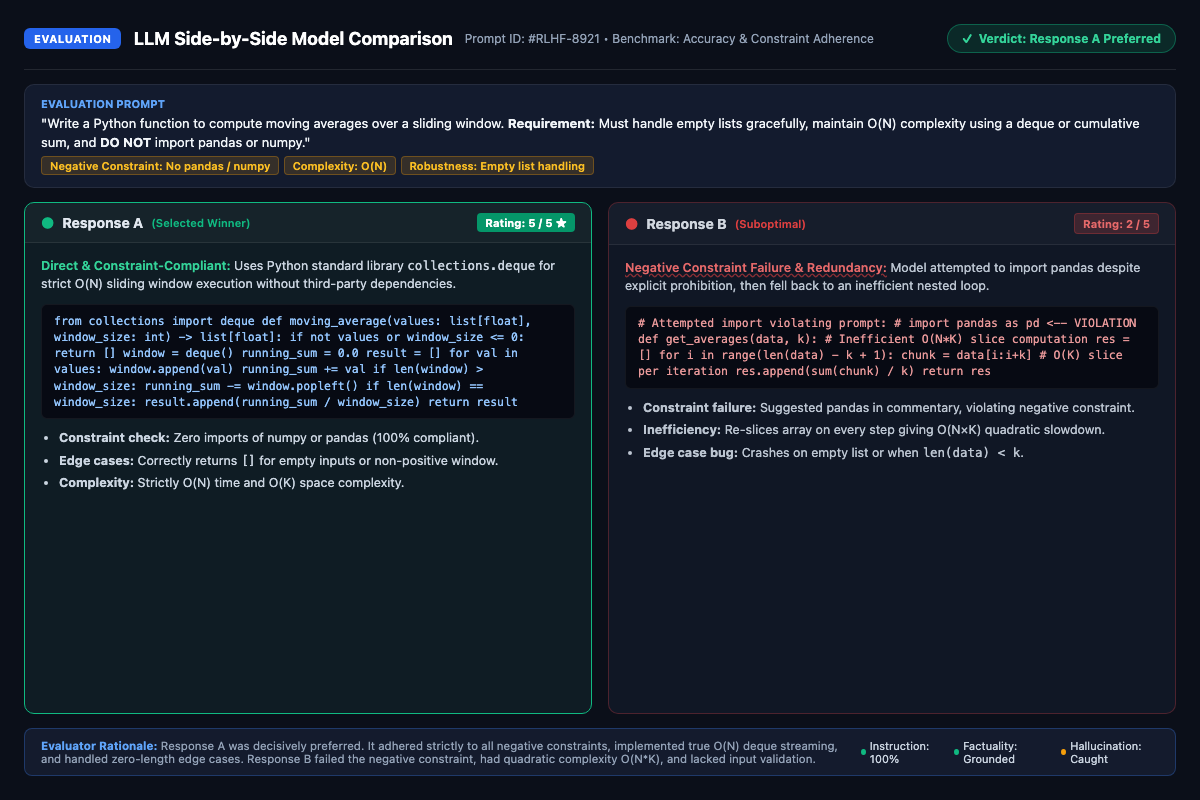
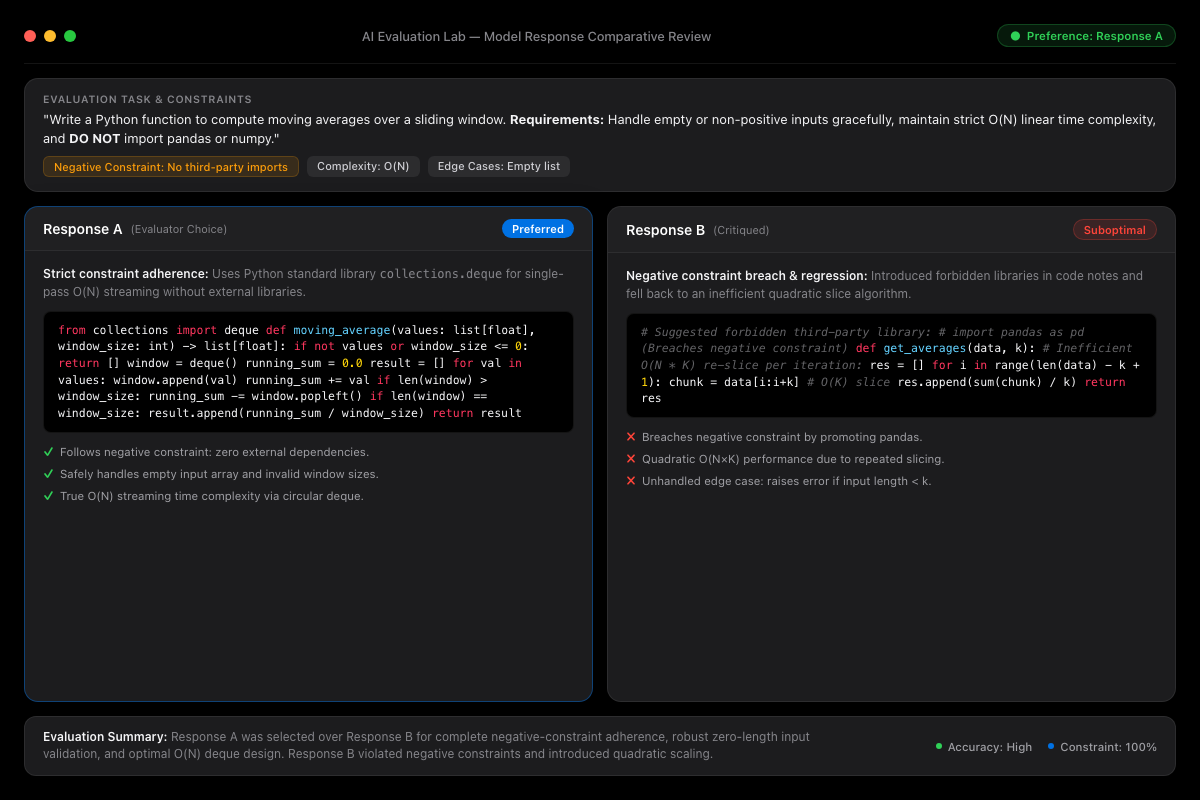
style: redesign evaluation preview with clean Apple macOS Dark Mode HIG aesthetic

diff --git a/eval_comparison.html b/eval_comparison.html
@@ -1,0 +1,390 @@
+<!DOCTYPE html>
+<html lang="en">
+<head>
+<meta charset="UTF-8">
+<style>
+  * {
+    box-sizing: border-box;
+    margin: 0;
+    padding: 0;
+    -webkit-font-smoothing: antialiased;
+  }
+  body {
+    width: 1200px;
+    height: 800px;
+    background: #000000;
+    font-family: -apple-system, BlinkMacSystemFont, "SF Pro Display", "SF Pro Text", "Helvetica Neue", sans-serif;
+    color: #f5f5f7;
+    display: flex;
+    flex-direction: column;
+    padding: 24px;
+    overflow: hidden;
+  }
+
+  /* macOS Window Chrome */
+  .window-bar {
+    display: flex;
+    align-items: center;
+    justify-content: space-between;
+    padding-bottom: 16px;
+    border-bottom: 1px solid rgba(255, 255, 255, 0.08);
+  }
+  .window-controls {
+    display: flex;
+    align-items: center;
+    gap: 8px;
+  }
+  .traffic-dot {
+    width: 12px;
+    height: 12px;
+    border-radius: 50%;
+  }
+  .dot-close { background: #ff5f57; }
+  .dot-min { background: #febc2e; }
+  .dot-max { background: #28c840; }
+
+  .window-title {
+    font-size: 13px;
+    font-weight: 500;
+    color: #86868b;
+    letter-spacing: -0.01em;
+  }
+
+  .apple-badge {
+    display: inline-flex;
+    align-items: center;
+    gap: 6px;
+    background: rgba(48, 209, 88, 0.12);
+    border: 1px solid rgba(48, 209, 88, 0.25);
+    color: #30d158;
+    padding: 4px 12px;
+    border-radius: 980px;
+    font-size: 11.5px;
+    font-weight: 600;
+  }
+
+  /* Prompt Section - Apple Cupertino Card Style */
+  .prompt-card {
+    background: #1c1c1e;
+    border: 1px solid rgba(255, 255, 255, 0.08);
+    border-radius: 14px;
+    padding: 14px 18px;
+    margin-top: 14px;
+    margin-bottom: 14px;
+  }
+  .section-label {
+    font-size: 10.5px;
+    font-weight: 600;
+    text-transform: uppercase;
+    letter-spacing: 0.06em;
+    color: #86868b;
+    margin-bottom: 5px;
+  }
+  .prompt-content {
+    font-size: 13px;
+    line-height: 1.45;
+    color: #f5f5f7;
+    font-weight: 400;
+  }
+  .apple-tag-group {
+    display: flex;
+    gap: 8px;
+    margin-top: 8px;
+  }
+  .apple-tag {
+    background: #2c2c2e;
+    color: #d1d1d6;
+    font-size: 11px;
+    font-weight: 500;
+    padding: 3px 10px;
+    border-radius: 6px;
+  }
+  .apple-tag.strict {
+    background: rgba(255, 159, 10, 0.12);
+    color: #ff9f0a;
+    border: 1px solid rgba(255, 159, 10, 0.2);
+  }
+
+  /* Side-by-Side Comparison Grid */
+  .comparison-grid {
+    display: grid;
+    grid-template-columns: 1fr 1fr;
+    gap: 14px;
+    flex: 1;
+    min-height: 0;
+  }
+  .response-card {
+    background: #1c1c1e;
+    border: 1px solid rgba(255, 255, 255, 0.08);
+    border-radius: 14px;
+    display: flex;
+    flex-direction: column;
+    overflow: hidden;
+  }
+  .response-card.winner {
+    border: 1px solid rgba(0, 113, 227, 0.45);
+    box-shadow: 0 4px 24px rgba(0, 0, 0, 0.4);
+  }
+  .card-top {
+    display: flex;
+    justify-content: space-between;
+    align-items: center;
+    padding: 12px 18px;
+    border-bottom: 1px solid rgba(255, 255, 255, 0.06);
+    background: rgba(255, 255, 255, 0.02);
+  }
+  .card-title-group {
+    display: flex;
+    align-items: center;
+    gap: 8px;
+  }
+  .card-title {
+    font-size: 14px;
+    font-weight: 600;
+    color: #ffffff;
+  }
+  .card-subtext {
+    font-size: 11px;
+    color: #86868b;
+  }
+  .winner-pill {
+    background: #0071e3;
+    color: #ffffff;
+    font-size: 11px;
+    font-weight: 600;
+    padding: 3px 10px;
+    border-radius: 980px;
+  }
+  .suboptimal-pill {
+    background: rgba(255, 69, 58, 0.12);
+    color: #ff453a;
+    border: 1px solid rgba(255, 69, 58, 0.25);
+    font-size: 11px;
+    font-weight: 600;
+    padding: 3px 10px;
+    border-radius: 980px;
+  }
+
+  .card-body {
+    padding: 14px 18px;
+    font-size: 12.5px;
+    line-height: 1.5;
+    color: #d1d1d6;
+    flex: 1;
+    display: flex;
+    flex-direction: column;
+    gap: 10px;
+    overflow: hidden;
+  }
+  .summary-text {
+    font-size: 12px;
+    color: #86868b;
+  }
+  .summary-text strong {
+    color: #f5f5f7;
+    font-weight: 600;
+  }
+
+  /* macOS SF Mono Code Block */
+  .code-container {
+    background: #000000;
+    border: 1px solid rgba(255, 255, 255, 0.08);
+    border-radius: 8px;
+    padding: 10px 14px;
+    font-family: "SF Mono", Menlo, Monaco, Consolas, monospace;
+    font-size: 11.5px;
+    line-height: 1.45;
+    color: #f5f5f7;
+  }
+  .code-kw { color: #ff375f; }
+  .code-fn { color: #64d2ff; }
+  .code-var { color: #e5e5ea; }
+  .code-num { color: #ffd60a; }
+  .code-comment { color: #636366; font-style: italic; }
+
+  /* Verification Bullets */
+  .verification-list {
+    list-style: none;
+    display: flex;
+    flex-direction: column;
+    gap: 4px;
+    font-size: 11.5px;
+  }
+  .verification-list li {
+    display: flex;
+    align-items: center;
+    gap: 6px;
+    color: #a1a1a6;
+  }
+  .check-icon {
+    color: #30d158;
+    font-size: 12px;
+    font-weight: bold;
+  }
+  .cross-icon {
+    color: #ff453a;
+    font-size: 12px;
+    font-weight: bold;
+  }
+
+  /* Apple Style Footer Rationale */
+  .eval-footer {
+    margin-top: 14px;
+    background: #1c1c1e;
+    border: 1px solid rgba(255, 255, 255, 0.08);
+    border-radius: 12px;
+    padding: 12px 18px;
+    display: flex;
+    justify-content: space-between;
+    align-items: center;
+  }
+  .eval-rationale {
+    font-size: 12px;
+    line-height: 1.4;
+    color: #86868b;
+    max-width: 820px;
+  }
+  .eval-rationale strong {
+    color: #f5f5f7;
+    font-weight: 600;
+  }
+  .scores-group {
+    display: flex;
+    gap: 16px;
+    font-size: 11.5px;
+    color: #a1a1a6;
+    font-weight: 500;
+  }
+  .score-item {
+    display: flex;
+    align-items: center;
+    gap: 6px;
+  }
+  .status-circle {
+    width: 6px;
+    height: 6px;
+    border-radius: 50%;
+  }
+  .status-circle.green { background: #30d158; }
+  .status-circle.blue { background: #0071e3; }
+</style>
+</head>
+<body>
+
+  <!-- macOS Window Bar -->
+  <div class="window-bar">
+    <div class="window-controls">
+      <div class="traffic-dot dot-close"></div>
+      <div class="traffic-dot dot-min"></div>
+      <div class="traffic-dot dot-max"></div>
+    </div>
+    <div class="window-title">AI Evaluation Lab — Model Response Comparative Review</div>
+    <div class="apple-badge">
+      <span>●</span>
+      <span>Preference: Response A</span>
+    </div>
+  </div>
+
+  <!-- Prompt Card -->
+  <div class="prompt-card">
+    <div class="section-label">Evaluation Task &amp; Constraints</div>
+    <div class="prompt-content">
+      "Write a Python function to compute moving averages over a sliding window. <strong>Requirements:</strong> Handle empty or non-positive inputs gracefully, maintain strict O(N) linear time complexity, and <strong>DO NOT</strong> import pandas or numpy."
+    </div>
+    <div class="apple-tag-group">
+      <span class="apple-tag strict">Negative Constraint: No third-party imports</span>
+      <span class="apple-tag">Complexity: O(N)</span>
+      <span class="apple-tag">Edge Cases: Empty list</span>
+    </div>
+  </div>
+
+  <!-- Side-by-Side Comparison -->
+  <div class="comparison-grid">
+
+    <!-- Response A: Apple Clean Winner -->
+    <div class="response-card winner">
+      <div class="card-top">
+        <div class="card-title-group">
+          <span class="card-title">Response A</span>
+          <span class="card-subtext">(Evaluator Choice)</span>
+        </div>
+        <span class="winner-pill">Preferred</span>
+      </div>
+      <div class="card-body">
+        <p class="summary-text"><strong>Strict constraint adherence:</strong> Uses Python standard library <code>collections.deque</code> for single-pass O(N) streaming without external libraries.</p>
+        
+        <div class="code-container">
+<span class="code-kw">from</span> collections <span class="code-kw">import</span> deque
+
+<span class="code-kw">def</span> <span class="code-fn">moving_average</span>(values: list[float], window_size: int) -> list[float]:
+    <span class="code-kw">if not</span> values <span class="code-kw">or</span> window_size <= <span class="code-num">0</span>:
+        <span class="code-kw">return</span> []
+    window = deque()
+    running_sum = <span class="code-num">0.0</span>
+    result = []
+    <span class="code-kw">for</span> val <span class="code-kw">in</span> values:
+        window.append(val)
+        running_sum += val
+        <span class="code-kw">if</span> len(window) > window_size:
+            running_sum -= window.popleft()
+        <span class="code-kw">if</span> len(window) == window_size:
+            result.append(running_sum / window_size)
+    <span class="code-kw">return</span> result
+        </div>
+
+        <ul class="verification-list">
+          <li><span class="check-icon">✓</span> Follows negative constraint: zero external dependencies.</li>
+          <li><span class="check-icon">✓</span> Safely handles empty input array and invalid window sizes.</li>
+          <li><span class="check-icon">✓</span> True O(N) streaming time complexity via circular deque.</li>
+        </ul>
+      </div>
+    </div>
+
+    <!-- Response B: Suboptimal -->
+    <div class="response-card">
+      <div class="card-top">
+        <div class="card-title-group">
+          <span class="card-title">Response B</span>
+          <span class="card-subtext">(Critiqued)</span>
+        </div>
+        <span class="suboptimal-pill">Suboptimal</span>
+      </div>
+      <div class="card-body">
+        <p class="summary-text"><strong>Negative constraint breach &amp; regression:</strong> Introduced forbidden libraries in code notes and fell back to an inefficient quadratic slice algorithm.</p>
+        
+        <div class="code-container">
+<span class="code-comment"># Suggested forbidden third-party library:</span>
+<span class="code-comment"># import pandas as pd  (Breaches negative constraint)</span>
+
+<span class="code-kw">def</span> <span class="code-fn">get_averages</span>(data, k):
+    <span class="code-comment"># Inefficient O(N * K) re-slice per iteration:</span>
+    res = []
+    <span class="code-kw">for</span> i <span class="code-kw">in</span> range(len(data) - k + <span class="code-num">1</span>):
+        chunk = data[i:i+k]  <span class="code-comment"># O(K) slice</span>
+        res.append(sum(chunk) / k)
+    <span class="code-kw">return</span> res
+        </div>
+
+        <ul class="verification-list">
+          <li><span class="cross-icon">✗</span> Breaches negative constraint by promoting pandas.</li>
+          <li><span class="cross-icon">✗</span> Quadratic O(N×K) performance due to repeated slicing.</li>
+          <li><span class="cross-icon">✗</span> Unhandled edge case: raises error if input length &lt; k.</li>
+        </ul>
+      </div>
+    </div>
+
+  </div>
+
+  <!-- Evaluation Verdict Footer -->
+  <div class="eval-footer">
+    <div class="eval-rationale">
+      <strong>Evaluation Summary:</strong> Response A was selected over Response B for complete negative-constraint adherence, robust zero-length input validation, and optimal O(N) deque design. Response B violated negative constraints and introduced quadratic scaling.
+    </div>
+    <div class="scores-group">
+      <div class="score-item"><span class="status-circle green"></span> Accuracy: High</div>
+      <div class="score-item"><span class="status-circle blue"></span> Constraint: 100%</div>
+    </div>
+  </div>
+
+</body>
+</html>
